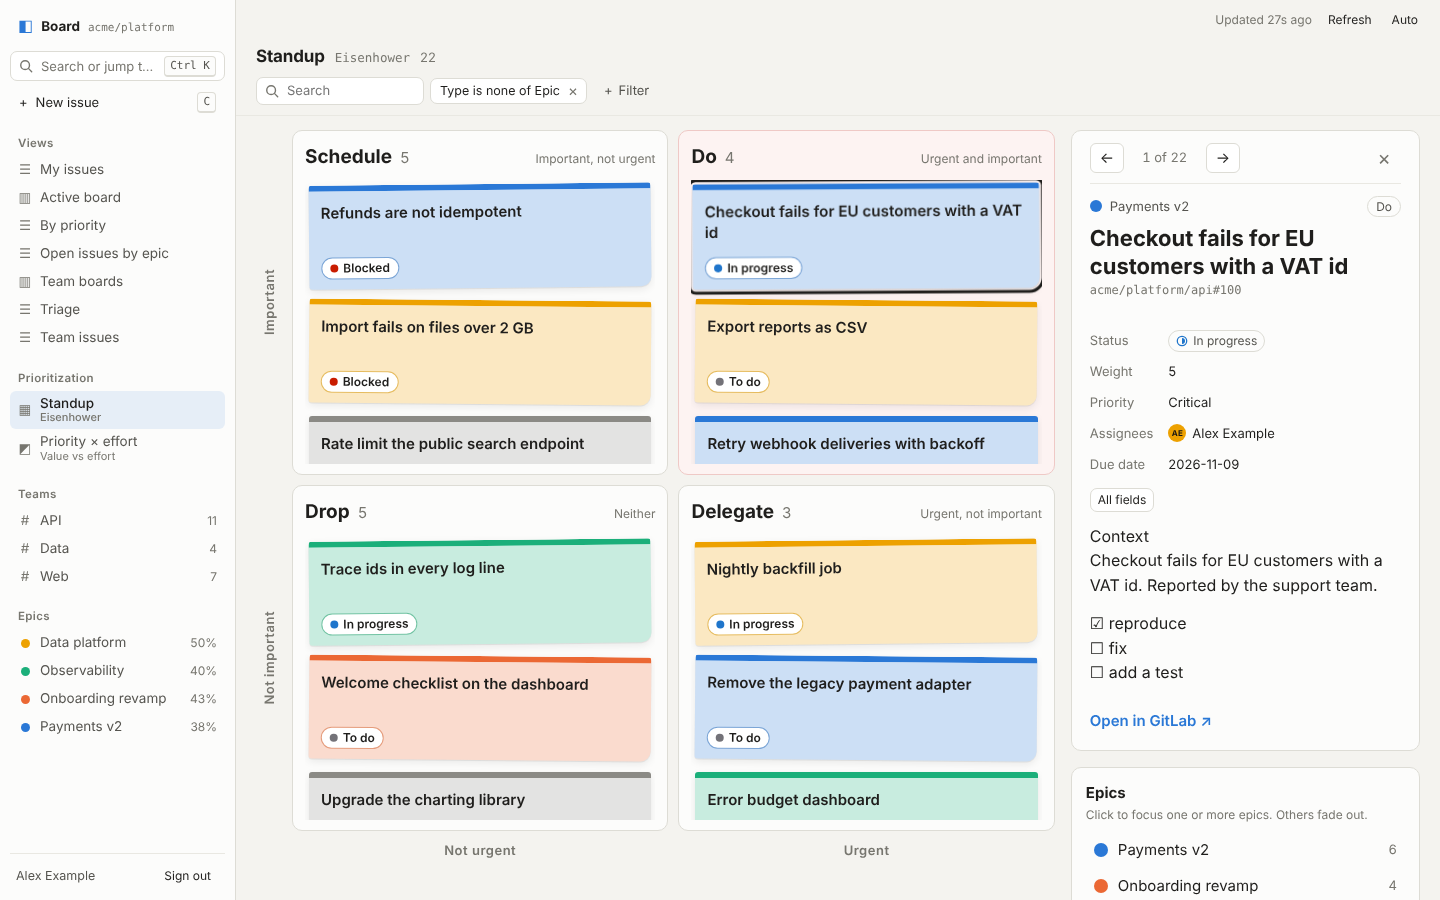
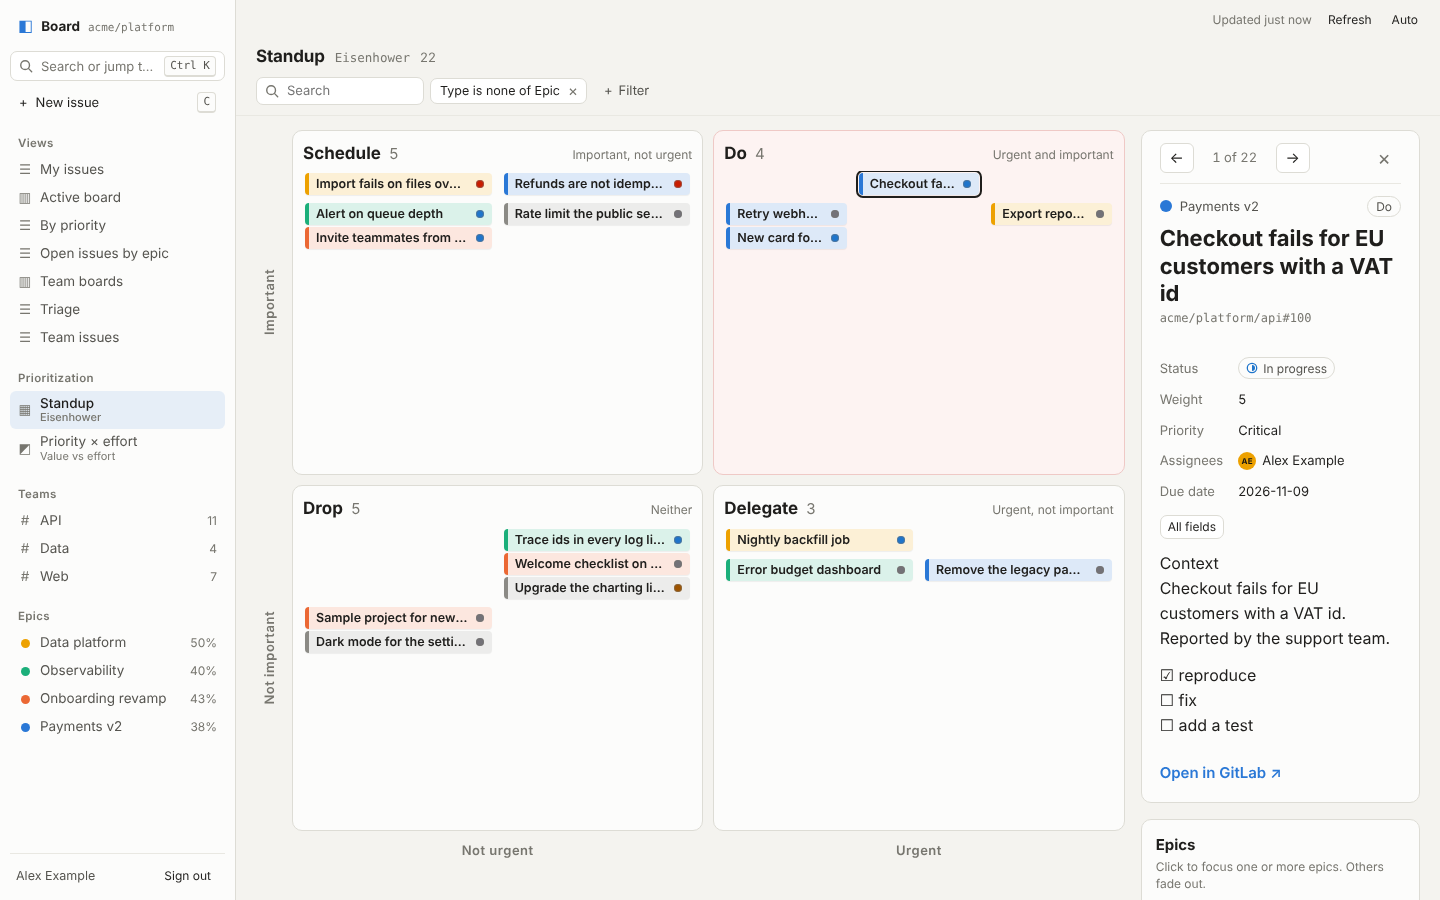
Compact matrix cards placed on a value grid inside each quadrant
- Cards are one line: epic color bar, title, status dot (status name when
  the card is wide enough). Full title and axis values are in the tooltip.
  About 12 fit per column on a 900 px tall screen, instead of 2-3 notes.
- Inside a quadrant, cards sit on a grid by their axis values: higher x
  further right, higher y further up (flipped for inverted axes). Only
  positions with cards get a row/column; a numeric axis with more than 4
  distinct values is merged into 4 ranges (quadrantCells, unit tested).
- The walk-through/legend panel is narrower (24%, min 260px), giving the
  quadrants more width.
- FAKE_GITLAB_EXTRA=N adds N generic issues to the fake GitLab, to check
  layouts with real volume.

Claude-Session: https://claude.ai/code/session_01VTP8nK6qcZg5p4toUFYCN3

diff --git a/src/lib/components/QuadrantBoard.svelte b/src/lib/components/QuadrantBoard.svelte
@@ -1,5 +1,5 @@
 <script lang="ts">
-	import { groupByQuadrant, screenLayout, type Placed, type ResolvedAxis } from '$lib/query/matrix';
+	import { groupByQuadrant, quadrantCells, screenLayout, type Placed, type ResolvedAxis } from '$lib/query/matrix';
 	import type { QuadrantKey } from '$lib/query/types';
 	import { slotVar, type ColorSlot } from '$lib/colors';
 	import type { OptionDef, WorkItem } from '$lib/fields/types';
@@ -43,6 +43,8 @@
 		{#each row as key, c (key)}
 			{@const q = quadrants[key]}
 			{@const notes = groups[key]}
+			<!-- Cards sit on a grid by their scores: higher x further right, higher y further up -->
+			{@const grid = quadrantCells(notes, { invertX: x.config.invert, invertY: y.config.invert })}
 			<section
 				class="quadrant"
 				class:do={key === 'highHigh'}
@@ -55,28 +57,34 @@
 					<span class="hint">{q.hint}</span>
 				</header>
 
-				<div class="notes">
-					{#each notes as p (p.item.id)}
-						{@const slot = slotFor(p.item)}
-						{@const status = statusOf(p.item)}
-						<button
-							class="note"
-							class:dim={!isActive(p.item)}
-							class:selected={selectedId === p.item.id}
-							class:other={slot === 'other'}
-							style="--note: {slotVar(slot)}"
-							data-item={p.item.id}
-							tabindex={isActive(p.item) ? 0 : -1}
-							aria-label="{p.item.title}. Status: {status?.label ?? 'none'}. Epic: {epicTitle(p.item)}."
-							aria-pressed={selectedId === p.item.id}
-							onclick={() => onselect(p.item)}
-						>
-							<span class="title">{p.item.title}</span>
-							<span class="status" class:none={!status}>
-								{#if status?.color}<span class="dot" style="background: {status.color}" aria-hidden="true"></span>{/if}{status?.label ??
-									'no status'}
-							</span>
-						</button>
+				<div class="notes" style="--cols: {grid.cols}; --rows: {grid.rows}">
+					{#each grid.cells as cell (`${cell.row}:${cell.col}`)}
+						<div class="cell" style="grid-row: {cell.row}; grid-column: {cell.col}">
+							{#each cell.items as p (p.item.id)}
+								{@const slot = slotFor(p.item)}
+								{@const status = statusOf(p.item)}
+								<button
+									class="note"
+									class:dim={!isActive(p.item)}
+									class:selected={selectedId === p.item.id}
+									class:other={slot === 'other'}
+									style="--note: {slotVar(slot)}"
+									data-item={p.item.id}
+									tabindex={isActive(p.item) ? 0 : -1}
+									title="{p.item.title}
+{x.title}: {x.text(p.item)} · {y.title}: {y.text(p.item)} · {status?.label ?? 'no status'}"
+									aria-label="{p.item.title}. Status: {status?.label ?? 'none'}. Epic: {epicTitle(p.item)}."
+									aria-pressed={selectedId === p.item.id}
+									onclick={() => onselect(p.item)}
+								>
+									<span class="title">{p.item.title}</span>
+									<span class="status" class:none={!status}>
+										<span class="dot" style:background={status?.color ?? 'transparent'} aria-hidden="true"></span>
+										<span class="status-label">{status?.label ?? 'no status'}</span>
+									</span>
+								</button>
+							{/each}
+						</div>
 					{:else}
 						<p class="empty">Nothing here</p>
 					{/each}
@@ -130,7 +138,7 @@
 		background: var(--surface-1);
 		border: 1px solid var(--border);
 		border-radius: var(--radius);
-		padding: 12px 12px 10px;
+		padding: 10px 10px 8px;
 	}
 	.quadrant.do {
 		background: var(--quadrant-do-solid);
@@ -140,11 +148,11 @@
 		display: flex;
 		align-items: baseline;
 		gap: 8px;
-		margin-bottom: 10px;
+		margin-bottom: 6px;
 	}
 	h2 {
 		margin: 0;
-		font-size: 19px;
+		font-size: 17px;
 	}
 	.count {
 		font-size: 15px;
@@ -162,99 +170,97 @@
 		min-height: 0;
 		overflow-y: auto;
 		display: grid;
-		grid-template-columns: repeat(auto-fill, minmax(168px, 1fr));
-		grid-auto-rows: minmax(104px, auto);
-		gap: 12px;
+		grid-template-columns: repeat(var(--cols, 1), minmax(0, 1fr));
+		grid-template-rows: repeat(var(--rows, 1), auto);
+		/* Wider gaps between positions than between cards, so the placement reads */
+		gap: 8px 12px;
 		align-content: start;
-		padding: 4px 4px 8px;
+		padding: 2px;
 	}
-
-	/* ---- The sticky note ---------------------------------------------------- */
-	.note {
-		position: relative;
+	.cell {
 		display: flex;
 		flex-direction: column;
-		justify-content: space-between;
-		gap: 10px;
-		padding: 12px 12px 10px;
+		gap: 2px;
+		min-width: 0;
+	}
+
+	/* ---- The card: one line, epic color bar, status dot ------------------------ */
+	.note {
+		container-type: inline-size;
+		display: flex;
+		align-items: center;
+		gap: 8px;
+		height: 22px;
+		min-width: 0;
+		padding: 0 8px 0 7px;
 		text-align: left;
 		cursor: pointer;
-		/* Paper tinted with the epic color; a solid band of the same color on top. */
-		background: color-mix(in srgb, var(--note) 24%, var(--surface-2));
+		background: color-mix(in srgb, var(--note) 16%, var(--surface-2));
 		border: 0;
-		border-top: 6px solid var(--note);
-		border-radius: 3px 3px 10px 3px;
-		box-shadow:
-			0 1px 1px rgba(0, 0, 0, 0.08),
-			0 3px 8px rgba(0, 0, 0, 0.08);
+		border-left: 4px solid var(--note);
+		border-radius: 4px;
+		box-shadow: 0 1px 1px rgba(0, 0, 0, 0.06);
 		transition:
-			transform 120ms ease,
 			opacity 150ms ease,
 			box-shadow 120ms ease;
 	}
-	/* A slight, deterministic tilt so it reads as paper, not as a table cell. */
-	.note:nth-child(3n + 1) {
-		transform: rotate(-0.6deg);
-	}
-	.note:nth-child(3n + 2) {
-		transform: rotate(0.5deg);
-	}
 	.note:hover,
 	.note:focus-visible {
-		transform: translateY(-2px) rotate(0deg);
-		box-shadow:
-			0 2px 2px rgba(0, 0, 0, 0.1),
-			0 8px 18px rgba(0, 0, 0, 0.14);
+		box-shadow: 0 1px 2px rgba(0, 0, 0, 0.12), 0 3px 8px rgba(0, 0, 0, 0.1);
 	}
 	.note.selected {
-		transform: scale(1.03);
-		outline: 3px solid var(--text-primary);
-		outline-offset: 2px;
+		outline: 2px solid var(--text-primary);
+		outline-offset: 1px;
 		z-index: 1;
 	}
 	.note.other {
 		outline: 1.5px dashed var(--text-muted);
-		outline-offset: -4px;
+		outline-offset: -2px;
 	}
 	.note.dim {
 		opacity: 0.18;
 	}
 
 	.title {
+		flex: 1;
+		min-width: 0;
 		color: var(--text-primary);
-		font-size: 15px;
+		font-size: 12.5px;
 		font-weight: 600;
-		line-height: 1.3;
-		display: -webkit-box;
-		-webkit-line-clamp: 4;
-		line-clamp: 4;
-		-webkit-box-orient: vertical;
+		white-space: nowrap;
 		overflow: hidden;
-		overflow-wrap: anywhere;
+		text-overflow: ellipsis;
 	}
 	.status {
-		align-self: flex-start;
-		font-size: 12px;
-		font-weight: 600;
-		line-height: 1;
-		padding: 4px 8px;
-		border-radius: 999px;
-		color: var(--text-primary);
-		background: var(--surface-2);
-		border: 1px solid color-mix(in srgb, var(--note) 55%, var(--border));
+		display: inline-flex;
+		align-items: center;
+		gap: 5px;
+		flex: 0 1 auto;
+		min-width: 0;
+		max-width: 45%;
+		font-size: 11px;
+		color: var(--text-muted);
+		white-space: nowrap;
+	}
+	.status-label {
+		overflow: hidden;
+		text-overflow: ellipsis;
 	}
 	.status.none {
-		color: var(--text-muted);
-		font-weight: 500;
 		font-style: italic;
 	}
 	.dot {
-		display: inline-block;
+		flex: none;
 		width: 8px;
 		height: 8px;
 		border-radius: 50%;
-		margin-right: 5px;
-		vertical-align: 0;
+		box-shadow: inset 0 0 0 1px color-mix(in srgb, var(--text-muted) 50%, transparent);
+	}
+	/* Narrow cards (several positions side by side): keep the dot, drop the status text */
+	@container (max-width: 190px) {
+		.status-label {
+			display: none;
+		}
 	}
 	.empty {
 		margin: 0;

diff --git a/src/lib/query/matrix.ts b/src/lib/query/matrix.ts
@@ -235,3 +235,56 @@ export function walkOrderOf(m: MatrixConfig): QuadrantKey[] {
 export function quadrantsOf(m: MatrixConfig): Record<QuadrantKey, { name: string; hint: string }> {
 	return { ...DEFAULT_QUADRANTS, ...(m.quadrants ?? {}) };
 }
+
+// ---- Position inside a quadrant ------------------------------------------------------------------
+
+/** One cell of the grid inside a quadrant: 1-based CSS grid row/column, and the items in it. */
+export interface QuadrantCell {
+	row: number;
+	col: number;
+	items: Placed[];
+}
+
+/**
+ * Buckets for one axis inside one quadrant: each distinct score gets its own position, lowest first.
+ * More than `max` distinct scores (e.g. weights 3, 4, 5, 8, 13) are merged into `max` equal ranges,
+ * so a numeric axis can't spread a quadrant over a dozen thin columns.
+ */
+export function scoreBuckets(scores: number[], max = 4): (score: number) => number {
+	const distinct = [...new Set(scores)].sort((a, b) => a - b);
+	if (distinct.length <= max) return (s) => Math.max(0, distinct.indexOf(s));
+	const lo = distinct[0];
+	const span = distinct[distinct.length - 1] - lo || 1;
+	return (s) => Math.min(max - 1, Math.floor(((s - lo) / span) * max));
+}
+
+/**
+ * Lay a quadrant's items out on a grid by their axis scores: higher x further right, higher y
+ * further up (both flipped when the axis is inverted, matching the quadrants themselves). Only
+ * positions that have items get a row/column, so empty space doesn't eat the quadrant. Items in a
+ * cell keep the quadrant's order (most important, then most urgent, then oldest).
+ */
+export function quadrantCells(
+	placed: Placed[],
+	opts: { invertX?: boolean; invertY?: boolean; maxBuckets?: number } = {}
+): { cols: number; rows: number; cells: QuadrantCell[] } {
+	if (placed.length === 0) return { cols: 0, rows: 0, cells: [] };
+	const max = opts.maxBuckets ?? 4;
+	const xb = scoreBuckets(placed.map((p) => p.x), max);
+	const yb = scoreBuckets(placed.map((p) => p.y), max);
+	// Only buckets in use become grid lines, in order
+	const usedX = [...new Set(placed.map((p) => xb(p.x)))].sort((a, b) => a - b);
+	const usedY = [...new Set(placed.map((p) => yb(p.y)))].sort((a, b) => a - b);
+	if (opts.invertX) usedX.reverse();
+	if (!opts.invertY) usedY.reverse(); // highest y on the top row
+	const byCell = new Map<string, QuadrantCell>();
+	for (const p of placed) {
+		const col = usedX.indexOf(xb(p.x)) + 1;
+		const row = usedY.indexOf(yb(p.y)) + 1;
+		const k = `${row}:${col}`;
+		if (!byCell.has(k)) byCell.set(k, { row, col, items: [] });
+		byCell.get(k)!.items.push(p);
+	}
+	const cells = [...byCell.values()].sort((a, b) => a.row - b.row || a.col - b.col);
+	return { cols: usedX.length, rows: usedY.length, cells };
+}

diff --git a/src/lib/query/matrix.test.ts b/src/lib/query/matrix.test.ts
@@ -1,6 +1,6 @@
 import { describe, expect, it } from 'vitest';
 import { registry, selectField, item, opt, num, date } from '$lib/testing/factory';
-import { groupByQuadrant, halfCut, placeItems, resolveAxis, screenLayout } from './matrix';
+import { groupByQuadrant, halfCut, placeItems, quadrantCells, resolveAxis, screenLayout } from './matrix';
 import type { RankContext } from './rank';
 import type { AxisConfig } from './types';
 import type { FieldDef } from '$lib/fields/types';
@@ -130,5 +130,42 @@ describe('placement', () => {
 		]);
 		const xi = { ...x, config: { ...x.config, invert: true } };
 		expect(screenLayout(xi, y).cells[0]).toEqual(['highHigh', 'lowHigh']);
+	});
+});
+
+describe('quadrantCells: position inside a quadrant (higher x right, higher y up)', () => {
+	const P = (x: number, y: number, id = `${x}-${y}-${Math.random()}`) =>
+		({ item: { id, iid: 1 } as never, x, y, quadrant: 'highHigh' as const });
+
+	it('puts higher x to the right and higher y on top, using only positions with items', () => {
+		const a = P(1, 1, 'a'), b = P(2, 1, 'b'), c = P(1, 3, 'c'), d = P(1, 3, 'd');
+		const g = quadrantCells([a, b, c, d]);
+		expect(g.cols).toBe(2);
+		expect(g.rows).toBe(2); // y = 1 and 3; nothing at 2, so no empty row
+		const at = (id: string) => g.cells.find((cell) => cell.items.some((p) => p.item.id === id))!;
+		expect([at('c').row, at('c').col]).toEqual([1, 1]); // high y → top
+		expect([at('a').row, at('a').col]).toEqual([2, 1]);
+		expect([at('b').row, at('b').col]).toEqual([2, 2]); // high x → right
+		expect(at('c').items.map((p) => p.item.id)).toEqual(['c', 'd']); // same values stack, order kept
+	});
+
+	it('flips with inverted axes', () => {
+		const g = quadrantCells([P(1, 1, 'lo'), P(2, 2, 'hi')], { invertX: true, invertY: true });
+		const hi = g.cells.find((c) => c.items[0].item.id === 'hi')!;
+		expect([hi.row, hi.col]).toEqual([2, 1]); // high y at the bottom, high x on the left
+	});
+
+	it('merges many distinct numeric values into at most 4 columns, keeping order', () => {
+		const xs = [3, 4, 5, 8, 13, 21];
+		const g = quadrantCells(xs.map((x) => P(x, 1, `w${x}`)));
+		expect(g.cols).toBeLessThanOrEqual(4);
+		const col = (x: number) => g.cells.find((c) => c.items.some((p) => p.item.id === `w${x}`))!.col;
+		for (let i = 1; i < xs.length; i++) expect(col(xs[i])).toBeGreaterThanOrEqual(col(xs[i - 1]));
+		expect(col(21)).toBeGreaterThan(col(3));
+	});
+
+	it('handles an empty quadrant and a single item', () => {
+		expect(quadrantCells([])).toEqual({ cols: 0, rows: 0, cells: [] });
+		expect(quadrantCells([P(5, 5)]).cells[0]).toMatchObject({ row: 1, col: 1 });
 	});
 });

diff --git a/src/lib/components/layouts/MatrixLayout.svelte b/src/lib/components/layouts/MatrixLayout.svelte
@@ -211,7 +211,7 @@
 <style>
 	.matrix {
 		display: grid;
-		grid-template-columns: minmax(0, 1fr) minmax(320px, 30%);
+		grid-template-columns: minmax(0, 1fr) minmax(260px, 24%);
 		gap: 16px;
 		align-items: start;
 	}

diff --git a/README.md b/README.md
@@ -70,6 +70,9 @@ node scripts/fake-gitlab.mjs &                     # http://localhost:4010
 . scripts/dev-env.sh && npm run dev                # board on http://localhost:5173, signs in with no password
 ```
 
+`FAKE_GITLAB_EXTRA=60 node scripts/fake-gitlab.mjs` adds 60 generic issues (spread over every priority,
+effort, weight and status), to see how views and matrices look with real volume.
+
 ## Environment variables
 
 | Variable | Default | |
@@ -231,6 +234,13 @@ returns to the config). There's no Display menu: the tool's config decides the l
 [`src/lib/prioritization/types.ts`](src/lib/prioritization/types.ts) and a definition to `TOOL_TYPES` in
 [`tools.ts`](src/lib/prioritization/tools.ts). A 2×2 type only needs `toMatrix()`; a type drawn differently
 gets its own `renderer` value and component in `ToolPage.svelte`. Nothing in views changes.
+
+**How a 2×2 is drawn.** Each issue is a one-line card: epic color bar, title, status dot (plus the status
+name when the card is wide enough; the full title and both axis values are in the tooltip). Inside each
+quadrant, cards sit on a grid by their axis values: higher x further right, higher y further up (flipped
+for an inverted axis). Only positions that have issues get a row or column; a numeric axis with more than
+4 distinct values in a quadrant is merged into 4 ranges. About 12 cards fit per column on a 900 px tall
+screen before a quadrant scrolls.
 
 **Older matrix views.** Views used to have a Matrix layout. A personal view or share link that still has it
 opens as a list with a notice pointing to Prioritization; saving the view clears the notice.
